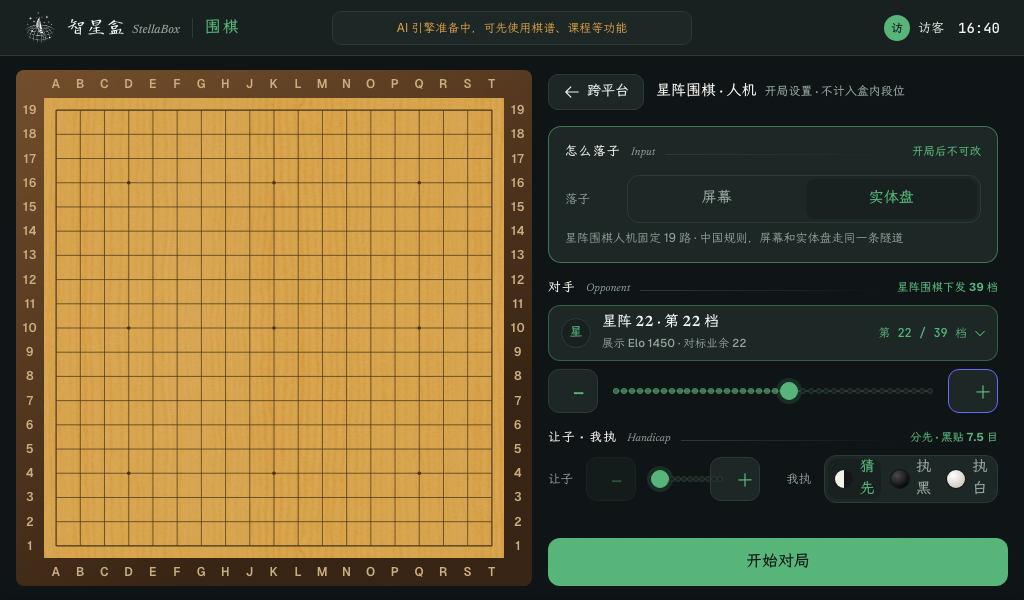
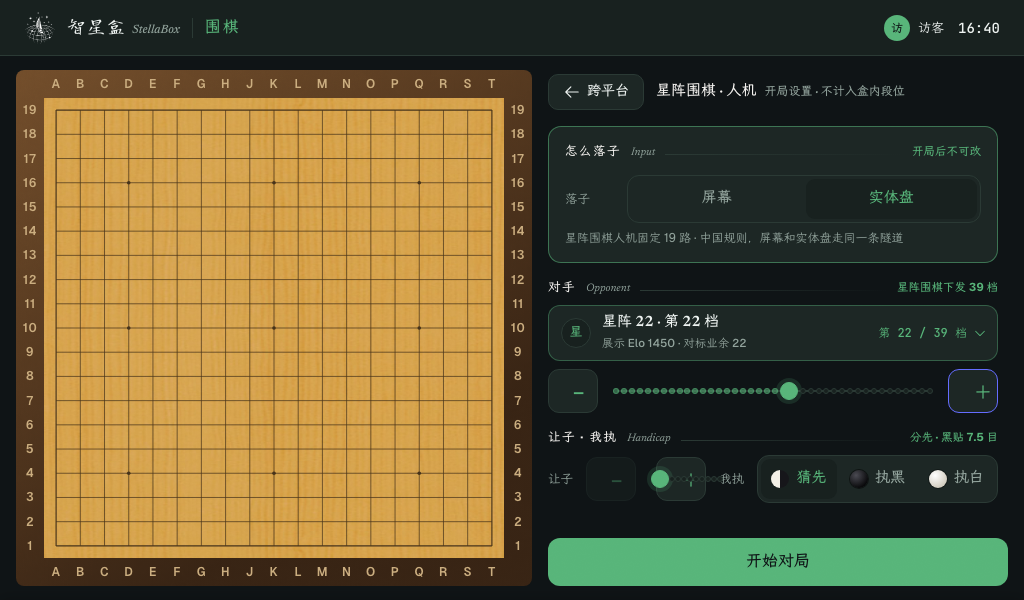
fix(kiosk-go): 屏 09 收尾 —— 我执分段折行 + 跨平台屏压掉本地引擎提示条
Task 4.6,Fan 裁定的两处 UI 改动:

1. 「我执」三段(猜先/执黑/执白)在 .twocol 半栏里挤成两行字 —— 真机截图证实,
   连中文两字标签都会被继承自 index.css 的 Vite 模板按钮 padding(0.6em 1.2em)
   挤到折行,德文更严重。修法:.twocol 两列改不等宽(让子窄、我执宽,仅本屏作用域)
   + 收紧这一屏「我执」按钮的继承 padding + 德/法/俄三语种按钮译文去掉冗余动词
   (Schwarz nehmen→Schwarz,Prendre Noir→Noir,Играть чёрными→Чёрные,理由:
   组标题已经是「我执/Handicap」,按钮不必再说一遍动词;中文/繁体/其余语种没有
   这层冗余,不动)。新增按语种(cn/de)参数化的折行断言,先红后绿。

2. EngineWarmupBanner 报的是本地 KataGo 就绪状态,跨平台屏(/kiosk/play/
   cross-platform/**)打的是远端平台(星阵)的 REST 隧道,与本地引擎无关 ——
   留着会让用户误读成「引擎没好开不了局」。判据收在 KioskLayout 一处
   (按 location 前缀决定传不传 extras)。顺带把 banner 里两句硬编码中文换成
   t(),补齐 11 语种(之前韩文等界面显示的是硬编码中文,i18n 闸看不见这类字符串)。

验证:kiosk-geometry-platform.spec.ts 全绿(cn/de 均覆盖新断言)、
src/kiosk vitest 1474 全绿、i18n.py -todo 干净、屏 09 四图重取(仅 09 变化,
07/08 未受影响)。

Changed region(s): [[0.6875, 0.75, 0.9688, 0.84], [0.375, 0.03, 0.625, 0.06]]

diff --git a/katrain/web/ui/src/kiosk/components/layout/KioskLayout.test.tsx b/katrain/web/ui/src/kiosk/components/layout/KioskLayout.test.tsx
@@ -2,6 +2,7 @@ import { render, screen } from '@testing-library/react';
 import { MemoryRouter, Routes, Route } from 'react-router-dom';
 import KioskLayout from './KioskLayout';
 import { DOCK_TABS } from '../../shell/dockRoutes';
+import { EngineReadinessContext } from '../../context/EngineReadinessContext';
 
 // Dock renders the 对弈 label; assert its presence/absence by route.
 function renderAt(path: string) {
@@ -12,11 +13,41 @@ function renderAt(path: string) {
           <Route path="/kiosk/*" element={<div>page</div>} />
           <Route path="/kiosk/settings" element={<div>settings</div>} />
           <Route path="/kiosk/play/ai/setup/:mode" element={<div>setup</div>} />
+          <Route path="/kiosk/play/cross-platform/engine/:platform" element={<div>platform-setup</div>} />
         </Route>
       </Routes>
     </MemoryRouter>,
   );
 }
+
+// EngineReadinessContext 默认值是 'ready'(banner 不渲染任何东西),要看到 banner 本身
+// 得手动喂一个 'warming'/'unavailable'。
+function renderAtWithReadiness(path: string, readiness: 'warming' | 'unavailable' | 'ready') {
+  return render(
+    <EngineReadinessContext.Provider value={readiness}>
+      <MemoryRouter initialEntries={[path]}>
+        <Routes>
+          <Route element={<KioskLayout username="友" />}>
+            <Route path="/kiosk/*" element={<div>page</div>} />
+            <Route path="/kiosk/play/cross-platform/engine/:platform" element={<div>platform-setup</div>} />
+          </Route>
+        </Routes>
+      </MemoryRouter>
+    </EngineReadinessContext.Provider>,
+  );
+}
+
+// Task 4.6:EngineWarmupBanner 报的是本地引擎,跨平台屏(`/kiosk/play/cross-platform/**`)
+// 打的是远端平台的 bot,和本地引擎无关 —— 判据只写在 KioskLayout 一处。
+test('引擎准备中提示条在跨平台子树整个不出现,别的一级页正常出', () => {
+  const play = renderAtWithReadiness('/kiosk/play', 'warming');
+  expect(play.getByRole('status')).toBeInTheDocument();
+  play.unmount();
+
+  const crossPlatform = renderAtWithReadiness('/kiosk/play/cross-platform/engine/golaxy', 'warming');
+  expect(crossPlatform.queryByRole('status')).not.toBeInTheDocument();
+  crossPlatform.unmount();
+});
 
 test('Dock shows on L1 play', () => {
   renderAt('/kiosk/play');

diff --git a/katrain/web/ui/src/kiosk/components/layout/KioskLayout.tsx b/katrain/web/ui/src/kiosk/components/layout/KioskLayout.tsx
@@ -28,6 +28,15 @@ const RAIL_ROUTES = ['/kiosk/play', '/kiosk/tsumego', '/kiosk/kifu', '/kiosk/tut
  * (那层 `<Box overflow:auto>` 会让 434 高的两栏在自己里面再滚一次)。
  */
 const SELF_LAYOUT_ROUTES = ['/kiosk/report', '/kiosk/settings'];
+
+/**
+ * `EngineWarmupBanner` 报的是**本地 KataGo** 的就绪状态。跨平台这几屏(`/kiosk/play/
+ * cross-platform/**`)打的是**远端平台的 bot**(星阵是 REST genmove 隧道)——领地/
+ * 支招/变化图同样走这条远端隧道,跟本地引擎无关。留着它会让用户合理地读成
+ * 「引擎没好,我现在不能开局」,压掉不损失任何真实信息。
+ * **判据只写在这一处** —— banner 自己不重复判,别处也不再判一次。
+ */
+const ENGINE_BANNER_SUPPRESSED_PREFIX = '/kiosk/play/cross-platform';
 interface KioskLayoutProps { username?: string }
 
 const KioskShell = ({ username }: KioskLayoutProps) => {
@@ -38,6 +47,7 @@ const KioskShell = ({ username }: KioskLayoutProps) => {
   // 一个真相来源:Dock 出不出、中间区 434 还是 516、主页键给不给,全从这一个数派生。
   const level = dockLevelOf(location.pathname);
   const showRail = level === 1 && RAIL_ROUTES.includes(location.pathname);
+  const showEngineBanner = !location.pathname.startsWith(ENGINE_BANNER_SUPPRESSED_PREFIX);
 
   return (
     <KioskFrame
@@ -61,7 +71,8 @@ const KioskShell = ({ username }: KioskLayoutProps) => {
       ) : undefined}
       // Temporary engine startup feedback belongs to the fixed canvas overlay layer,
       // not to the permanent device-status cluster inside KioskTopbar.
-      extras={<EngineWarmupBanner />}
+      // 跨平台子树不传 —— 它报的是本地引擎,那几屏打的是远端平台,见上面的注释。
+      extras={showEngineBanner ? <EngineWarmupBanner /> : undefined}
     >
       {/* ⚠ `.kiosk-layout-l1` 是 `grid-template-columns: 296px 680px`(tokens.css:430),
           **右栏由页面自己提供根节点** —— `<Outlet/>` 渲染出来的那一层就是第二列。

diff --git a/katrain/web/ui/src/kiosk-shell/go-screens.css b/katrain/web/ui/src/kiosk-shell/go-screens.css
@@ -1917,3 +1917,21 @@ button.kiosk-row.figrow { flex: none; }
 .twocol .tcol { flex: 1; min-width: 0; display: flex; align-items: center; gap: 8px; }
 .twocol .iglab { width: 30px; flex: none; font-size: 12.5px; color: var(--dim); }
 .twocol .catpick, .twocol .kiosk-optseg { flex: 1; min-width: 0; }
+
+/* 屏 09 修复轮 5(Task 4.6,2026-09-23)—— 「我执」三个选项挤成两行字。
+   设计源两列各 `flex: 1`(go-kiosk.tmpl.html:652),这一屏因为多一个选项
+   (让子只有一个控件,我执有三个)要偏 —— **这条偏离是本屏专属,不回改设计源**。
+   真浏览器实测(`platform-engine-setup-page` 作用域):等宽时每列 212px,
+   三个按钮分到 (212−6 容器 padding−6 两条 3px gap)/3 ≈ 66.7px,减掉继承自
+   `index.css:38` 的 Vite 模板 `button{padding:0.6em 1.2em}`(在这里等于
+   `9px 18px`,两侧 36px)后只剩约 30px 给图标+间距+文字 —— 中文「猜先」两个字
+   都会被挤到折成两行(截图验过,不是靠推断)。
+   比例 34:66 —— 让子只有一个步进轨(−/点/+ 三个热区),我执要塞三段文字按钮,
+   量出这个比例后中/德两语种「我执」三段都不折行(见 `kiosk-geometry-platform.spec.ts`
+   「屏 09「我执」分段按钮不折行」)。 */
+[data-testid="platform-engine-setup-page"] .twocol .tcol:nth-child(1) { flex: 0.52; }
+[data-testid="platform-engine-setup-page"] .twocol .tcol:nth-child(2) { flex: 1; }
+/* 同一处修复:继承来的 Vite 模板按钮 padding 对三段一行的分段控件太宽,
+   把图标+两字挤没了空间 —— 缩到够放下图标(18)+ gap(7)+ 两字(30)+ 呼吸空间的量,
+   不是字面截断,是把误继承的默认值收回正常范围。只在这一屏的「我执」段生效。 */
+[data-testid="platform-engine-setup-page"] .twocol .kiosk-optseg button { padding: 0 6px; }

diff --git a/katrain/web/ui/tests/kiosk-geometry-platform.spec.ts b/katrain/web/ui/tests/kiosk-geometry-platform.spec.ts
@@ -187,6 +187,32 @@ for (const lang of ['cn', 'de'] as const) {
   });
 }
 
+/**
+ * 「我执」分段按钮里的字不许折行(Task 4.6,Fan 裁定)。
+ * `[data-testid="setup-side-seg"]` 里每个 `button` 断言 `scrollHeight <= clientHeight` ——
+ * 折行不是被裁掉,是画到盒子外面压住下面的留白(同类型缺陷见上面 `.kiosk-opthint` 的注释)。
+ * cn 和 de 都要量:cn 的猜先/执黑/执白从来不折,de 的 `Schwarz nehmen`(14 字母)在半栏(~200px)
+ * 折成两行是这条闸要抓的真缺陷。
+ */
+for (const lang of ['cn', 'de'] as const) {
+  test(`屏 09「我执」分段按钮不折行(lang=${lang})`, async ({ page }) => {
+    await boot(page, { camera: true, lang });
+    const buttons = await page.evaluate(() => {
+      const seg = document.querySelector('[data-testid="setup-side-seg"]') as HTMLElement;
+      return Array.from(seg.querySelectorAll('button')).map((b) => ({
+        text: b.textContent,
+        scrollHeight: b.scrollHeight,
+        clientHeight: b.clientHeight,
+      }));
+    });
+    console.log(`[geom 09 side-seg lang=${lang}]`, JSON.stringify(buttons));
+    for (const b of buttons) {
+      expect(b.scrollHeight, `「我执」按钮折行(lang=${lang}):「${b.text}」`)
+        .toBeLessThanOrEqual(b.clientHeight);
+    }
+  });
+}
+
 test('39 档面板:完整落在右栏内、与棋盘无交集、轨的四角都被盖住、手指拨得动', async ({ page }) => {
   await boot(page, { camera: true });
   await page.click('[data-testid="setup-opponent-plate"]');

diff --git a/katrain/web/ui/src/kiosk/components/layout/EngineWarmupBanner.tsx b/katrain/web/ui/src/kiosk/components/layout/EngineWarmupBanner.tsx
@@ -1,12 +1,16 @@
 import { useEngineReadiness } from '../../context/EngineReadinessContext';
+import { useTranslation } from '../../../hooks/useTranslation';
 
 const EngineWarmupBanner = () => {
   const readiness = useEngineReadiness();
+  const { t } = useTranslation();
   if (readiness === 'ready') return null;
 
+  // ⚠ 韩文等界面之前显示的是硬编码中文 —— 没走 t(),i18n 闸对这一类完全失明
+  // (它从 t('key','中文') 调用里抽 key,从没出现在 t() 里的字符串它根本看不见)。
   const message = readiness === 'warming'
-    ? 'AI 引擎准备中，可先使用棋谱、课程等功能'
-    : 'AI 引擎暂未就绪，可稍后重试';
+    ? t('engine:warmup_warming', 'AI 引擎准备中，可先使用棋谱、课程等功能')
+    : t('engine:warmup_unavailable', 'AI 引擎暂未就绪，可稍后重试');
 
   return (
     <div

diff --git a/katrain/web/ui/src/kiosk/components/layout/EngineWarmupBanner.test.tsx b/katrain/web/ui/src/kiosk/components/layout/EngineWarmupBanner.test.tsx
@@ -6,6 +6,9 @@ const { useEngineReadinessMock } = vi.hoisted(() => ({ useEngineReadinessMock: v
 vi.mock('../../context/EngineReadinessContext', () => ({
   useEngineReadiness: useEngineReadinessMock,
 }));
+vi.mock('../../../hooks/useTranslation', () => ({
+  useTranslation: () => ({ t: (_key: string, fallback?: string) => fallback ?? '' }),
+}));
 
 describe('EngineWarmupBanner', () => {
   beforeEach(() => useEngineReadinessMock.mockReset());
